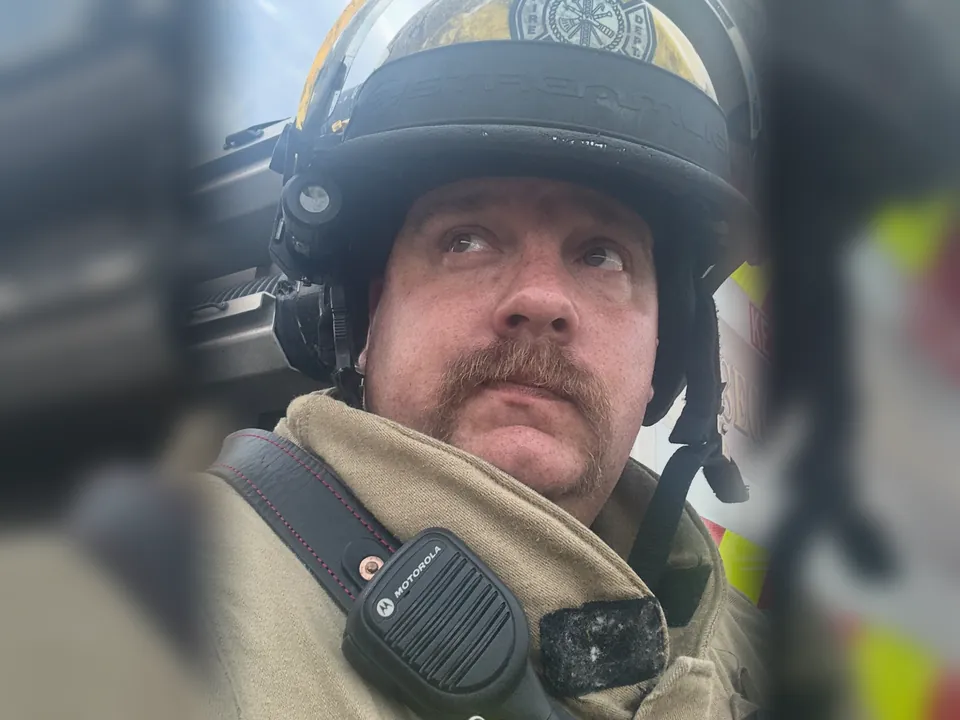
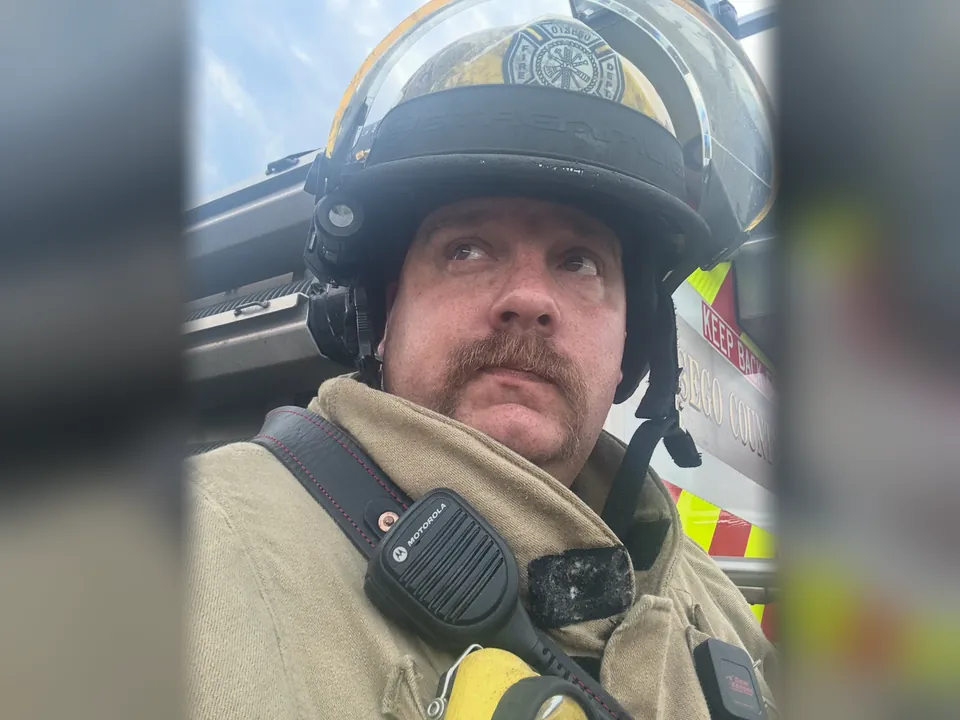
Show the full width of each board photo, restore the stronger side blur

diff --git a/index.html b/index.html
@@ -303,9 +303,9 @@
     <div class="eyebrow">Leadership</div>
     <h2 class="section-heading">Board of <em>Directors</em></h2>
     <div class="board-grid">
-      <div class="board-card board-card--photo reveal"><div class="board-photo"><img src="images/board-libby-wide.webp?v=2" alt="Libby Benjamin" width="960" height="720" loading="lazy"></div><div class="board-info"><div class="board-name">Libby Benjamin</div><div class="board-role">President</div></div></div>
-      <div class="board-card board-card--photo reveal"><div class="board-photo"><img src="images/board-dan-wide.webp?v=2" alt="Dan Rypkowski" width="960" height="720" loading="lazy"></div><div class="board-info"><div class="board-name">Dan Rypkowski</div><div class="board-role">Vice President</div></div></div>
-      <div class="board-card board-card--photo reveal"><div class="board-photo"><img src="images/board-kenneth-wide.webp?v=2" alt="Kenneth Gibson" width="960" height="720" loading="lazy"></div><div class="board-info"><div class="board-name">Kenneth Gibson</div><div class="board-role">Secretary / Treasurer</div></div></div>
+      <div class="board-card board-card--photo reveal"><div class="board-photo"><img src="images/board-libby-wide.webp?v=3" alt="Libby Benjamin" width="960" height="720" loading="lazy"></div><div class="board-info"><div class="board-name">Libby Benjamin</div><div class="board-role">President</div></div></div>
+      <div class="board-card board-card--photo reveal"><div class="board-photo"><img src="images/board-dan-wide.webp?v=3" alt="Dan Rypkowski" width="960" height="720" loading="lazy"></div><div class="board-info"><div class="board-name">Dan Rypkowski</div><div class="board-role">Vice President</div></div></div>
+      <div class="board-card board-card--photo reveal"><div class="board-photo"><img src="images/board-kenneth-wide.webp?v=3" alt="Kenneth Gibson" width="960" height="720" loading="lazy"></div><div class="board-info"><div class="board-name">Kenneth Gibson</div><div class="board-role">Secretary / Treasurer</div></div></div>
     </div>
   </div>
 </section>
